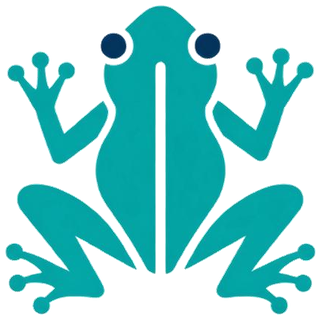
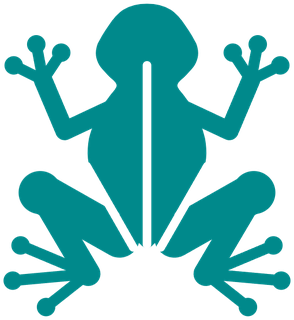
Новая иконка MicroTest Vision вместо старого логотипа (шапка, значок вкладки и экрана, лягушка в пасхалке)

diff --git a/phone/index.html b/phone/index.html
@@ -4,8 +4,8 @@
 <meta charset="utf-8">
 <meta name="viewport" content="width=device-width, initial-scale=1, viewport-fit=cover">
 <title>МикроТест Петри – диско-диффузионный метод</title>
-<link rel="icon" type="image/png" href="favicon.png">
-<link rel="apple-touch-icon" href="logo.png">
+<link rel="icon" type="image/png" href="favicon.png?v=2">
+<link rel="apple-touch-icon" href="logo.png?v=2">
 <meta name="claude:viewport-fit-sides" content="cover">
 <link rel="preconnect" href="https://fonts.googleapis.com">
 <link rel="preconnect" href="https://fonts.gstatic.com" crossorigin>
@@ -16,11 +16,11 @@
 <script>try { if (location.hostname === "grom1143.github.io" && !/[?&]phone/.test(location.search) && !(matchMedia("(pointer: coarse)").matches && Math.min(screen.width, screen.height) < 768)) location.replace("../" + location.hash); } catch {}</script>
 <!-- тема ставится до показа страницы, чтобы она не мигала другой темой -->
 <script>try { const t = localStorage.getItem("zona-theme"); if (t === "light" || t === "dark") document.documentElement.dataset.theme = t; } catch {}</script>
-<link rel="stylesheet" href="style.css?v=2026101705">
+<link rel="stylesheet" href="style.css?v=2026101706">
 
 <div class="wrap">
   <header>
-    <img class="brand-logo" src="logo.png" alt="МикроТест – нажмите на лягушку" width="128" height="128" role="button" tabindex="0">
+    <img class="brand-logo" src="logo.png?v=2" alt="МикроТест – нажмите на лягушку" width="128" height="128" role="button" tabindex="0">
     <div class="title-row">
       <h1>МикроТест <span class="brand-pc">Вижн</span><span class="brand-phone">Петри</span> <small>диско-диффузионный метод</small></h1>
       <button class="help-btn" id="helpBtn" type="button" title="Как это работает" aria-label="Справка: как это работает" aria-haspopup="dialog">?</button>
@@ -343,6 +343,6 @@
 </div>
 
 <!-- анализ изображения (без интерфейса) и интерфейс – в отдельных файлах -->
-<script src="analysis.js?v=2026101705" charset="utf-8"></script>
+<script src="analysis.js?v=2026101706" charset="utf-8"></script>
 
-<script src="app.js?v=2026101705" charset="utf-8"></script>
+<script src="app.js?v=2026101706" charset="utf-8"></script>

diff --git a/index.html b/index.html
@@ -4,8 +4,8 @@
 <meta charset="utf-8">
 <meta name="viewport" content="width=device-width, initial-scale=1, viewport-fit=cover">
 <title>МикроТест Вижн – диско-диффузионный метод</title>
-<link rel="icon" type="image/png" href="favicon.png">
-<link rel="apple-touch-icon" href="logo.png">
+<link rel="icon" type="image/png" href="favicon.png?v=2">
+<link rel="apple-touch-icon" href="logo.png?v=2">
 <meta name="claude:viewport-fit-sides" content="cover">
 <link rel="preconnect" href="https://fonts.googleapis.com">
 <link rel="preconnect" href="https://fonts.gstatic.com" crossorigin>
@@ -20,7 +20,7 @@
 
 <div class="wrap">
   <header>
-    <img class="brand-logo" src="logo.png" alt="" width="128" height="128">
+    <img class="brand-logo" src="logo.png?v=2" alt="" width="128" height="128">
     <div class="title-row">
       <h1>МикроТест Вижн <small>диско-диффузионный метод</small></h1>
       <button class="help-btn" id="helpBtn" type="button" title="Как это работает" aria-label="Справка: как это работает" aria-haspopup="dialog">?</button>

diff --git a/phone/app.js b/phone/app.js
@@ -2103,7 +2103,7 @@ loadBrowser().then(ok => { if (!ok) loadSample(); });
 // в первом секторе – густо и мелко, дальше – реже и крупнее, в последнем – отдельные колонии (как при настоящем посеве)
 const frogImg = new Image();
 frogImg.src = "frog.png?v=" + (document.querySelector('script[src^="app.js"]').getAttribute("src").split("v=")[1] || "1");
-const FROG_PAW = { x: 0.86, y: 0.17 };   // кончик правой передней лапки на картинке frog.png (доли ширины и высоты)
+const FROG_PAW = { x: 0.877, y: 0.138 }; // кончик верхнего пальца правой передней лапы на frog.png (доли ширины и высоты); новая иконка 17.10.2026
 let eggRun = 0;
 function playEgg() {
   const box = $("eggBox"), c = $("eggCv"), S = Math.round(Math.min(440, innerWidth * 0.92)), dpr = window.devicePixelRatio || 1;
